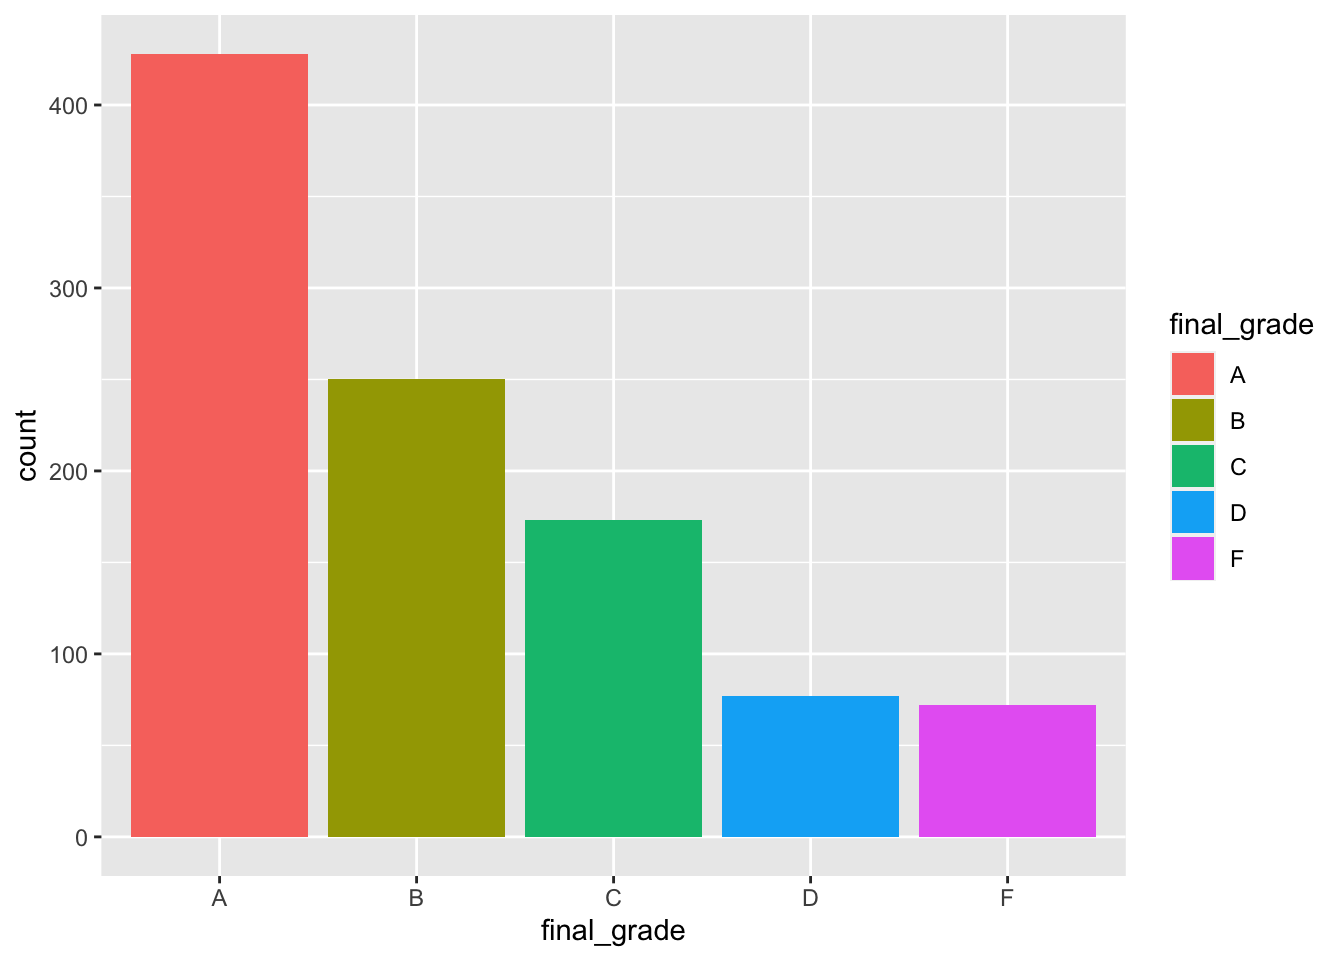
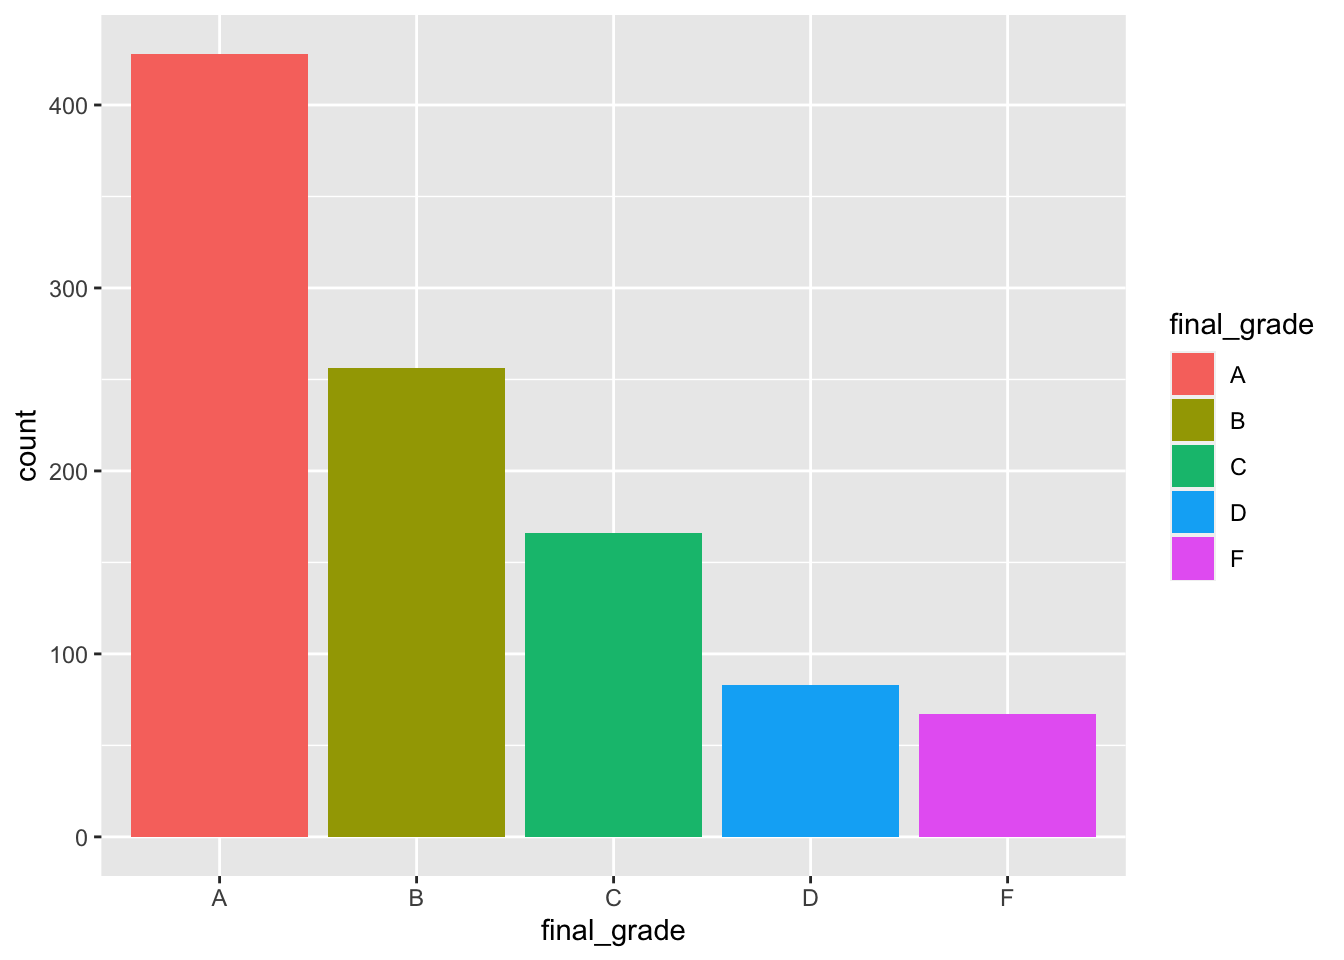
updated a change with build

Changed region(s): [[0.5312, 0.6875, 0.8125, 0.75], [0.375, 0.5312, 0.5312, 0.5625], [0.25, 0.375, 0.375, 0.4062]]

diff --git a/docs/a-table-app.html b/docs/a-table-app.html
@@ -32,7 +32,7 @@
   
   
 <link rel="prev" href="sources.html"/>
-<link rel="next" href="add-a-graph.html"/>
+
 <script src="libs/header-attrs-2.6/header-attrs.js"></script>
 <script src="libs/jquery-2.2.3/jquery.min.js"></script>
 <link href="libs/gitbook-2.6.7/css/style.css" rel="stylesheet" />
@@ -139,8 +139,9 @@ code span.wa { color: #60a0b0; font-weight: bold; font-style: italic; } /* Warni
 <ul>
 <li class="chapter" data-level="3.1" data-path="a-table-app.html"><a href="a-table-app.html#just-a-table"><i class="fa fa-check"></i><b>3.1</b> Just a table</a></li>
 <li class="chapter" data-level="3.2" data-path="a-table-app.html"><a href="a-table-app.html#some-structure"><i class="fa fa-check"></i><b>3.2</b> Some structure</a></li>
+<li class="chapter" data-level="3.3" data-path="a-table-app.html"><a href="a-table-app.html#add-a-graph"><i class="fa fa-check"></i><b>3.3</b> Add a graph!</a></li>
+<li class="chapter" data-level="3.4" data-path="a-table-app.html"><a href="a-table-app.html#add-a-sidebar-and-a-picker-input"><i class="fa fa-check"></i><b>3.4</b> Add a sidebar and a picker input</a></li>
 </ul></li>
-<li class="chapter" data-level="4" data-path="add-a-graph.html"><a href="add-a-graph.html"><i class="fa fa-check"></i><b>4</b> Add a graph!</a></li>
 <li class="divider"></li>
 <li><a href="https://github.com/rstudio/bookdown" target="blank">Published with bookdown</a></li>
 
@@ -188,10 +189,10 @@ code span.wa { color: #60a0b0; font-weight: bold; font-style: italic; } /* Warni
 <div class="sourceCode" id="cb2"><pre class="sourceCode r"><code class="sourceCode r"><span id="cb2-1"><a href="a-table-app.html#cb2-1" aria-hidden="true" tabindex="-1"></a><span class="fu">glimpse</span>(grades)</span></code></pre></div>
 <pre><code>## Rows: 1,000
 ## Columns: 4
-## $ name        &lt;chr&gt; &quot;Rhys Kessler-Schuppe&quot;, &quot;Jannie Bailey&quot;, &quot;Britt Schmitt S…
-## $ final_score &lt;chr&gt; &quot;0.84&quot;, &quot;0.92&quot;, &quot;0.93&quot;, &quot;0.99&quot;, &quot;0.96&quot;, &quot;0.95&quot;, &quot;0.94&quot;, &quot;…
-## $ section     &lt;chr&gt; &quot;09&quot;, &quot;10&quot;, &quot;01&quot;, &quot;02&quot;, &quot;01&quot;, &quot;04&quot;, &quot;07&quot;, &quot;07&quot;, &quot;08&quot;, &quot;06…
-## $ final_grade &lt;chr&gt; &quot;B&quot;, &quot;A&quot;, &quot;A&quot;, &quot;A&quot;, &quot;A&quot;, &quot;A&quot;, &quot;A&quot;, &quot;B&quot;, &quot;D&quot;, &quot;C&quot;, &quot;A&quot;, &quot;F…</code></pre>
+## $ name        &lt;chr&gt; &quot;Ricki Wuckert&quot;, &quot;Mr. Dominick Corkery&quot;, &quot;Lish Doyle&quot;, &quot;D…
+## $ final_score &lt;chr&gt; &quot;0.84&quot;, &quot;0.93&quot;, &quot;0.98&quot;, &quot;0.81&quot;, &quot;0.98&quot;, &quot;0.83&quot;, &quot;0.80&quot;, &quot;…
+## $ section     &lt;chr&gt; &quot;09&quot;, &quot;01&quot;, &quot;05&quot;, &quot;03&quot;, &quot;07&quot;, &quot;04&quot;, &quot;05&quot;, &quot;09&quot;, &quot;02&quot;, &quot;04…
+## $ final_grade &lt;chr&gt; &quot;B&quot;, &quot;A&quot;, &quot;A&quot;, &quot;B&quot;, &quot;A&quot;, &quot;B&quot;, &quot;B&quot;, &quot;F&quot;, &quot;A&quot;, &quot;B&quot;, &quot;B&quot;, &quot;A…</code></pre>
 <p>The basic framework for a Shiny app looks like this</p>
 <div class="sourceCode" id="cb4"><pre class="sourceCode r"><code class="sourceCode r"><span id="cb4-1"><a href="a-table-app.html#cb4-1" aria-hidden="true" tabindex="-1"></a><span class="fu">library</span>(shiny)</span>
 <span id="cb4-2"><a href="a-table-app.html#cb4-2" aria-hidden="true" tabindex="-1"></a></span>
@@ -267,14 +268,53 @@ code span.wa { color: #60a0b0; font-weight: bold; font-style: italic; } /* Warni
 </br>
 <img src="images/03_table_app/basic_table_04.png" /></p>
 </div>
+<div id="add-a-graph" class="section level2" number="3.3">
+<h2><span class="header-section-number">3.3</span> Add a graph!</h2>
+<p><img src="images/03_table_app/basic_table_05.png" /></p>
+<p>Next we are going to add a graph to our app. We will make a basic bar graph showing the distribution of grades in the course. Here is the <code>{ggplot2}</code> code we will use to make the graph.</p>
+<div class="sourceCode" id="cb9"><pre class="sourceCode r"><code class="sourceCode r"><span id="cb9-1"><a href="a-table-app.html#cb9-1" aria-hidden="true" tabindex="-1"></a><span class="fu">ggplot</span>(grades, <span class="fu">aes</span>(final_grade, <span class="at">fill =</span> final_grade)) <span class="sc">+</span> <span class="fu">geom_histogram</span>(<span class="at">stat =</span> <span class="st">&#39;count&#39;</span>)</span></code></pre></div>
+<p><img src="notes_shiny_files/figure-html/unnamed-chunk-8-1.png" width="672" /></p>
+<p>The code for the app will look like this</p>
+<div class="sourceCode" id="cb10"><pre class="sourceCode r"><code class="sourceCode r"><span id="cb10-1"><a href="a-table-app.html#cb10-1" aria-hidden="true" tabindex="-1"></a>ui <span class="ot">&lt;-</span> <span class="fu">fluidPage</span>(</span>
+<span id="cb10-2"><a href="a-table-app.html#cb10-2" aria-hidden="true" tabindex="-1"></a>  <span class="fu">br</span>(),</span>
+<span id="cb10-3"><a href="a-table-app.html#cb10-3" aria-hidden="true" tabindex="-1"></a>  <span class="fu">wellPanel</span>(</span>
+<span id="cb10-4"><a href="a-table-app.html#cb10-4" aria-hidden="true" tabindex="-1"></a>    <span class="fu">h3</span>(<span class="st">&quot;My table app&quot;</span>),</span>
+<span id="cb10-5"><a href="a-table-app.html#cb10-5" aria-hidden="true" tabindex="-1"></a>    lorem<span class="sc">::</span><span class="fu">ipsum</span>(<span class="at">paragraphs =</span> <span class="dv">1</span>, <span class="at">sentences =</span> <span class="dv">6</span>)</span>
+<span id="cb10-6"><a href="a-table-app.html#cb10-6" aria-hidden="true" tabindex="-1"></a>  ),</span>
+<span id="cb10-7"><a href="a-table-app.html#cb10-7" aria-hidden="true" tabindex="-1"></a>  <span class="fu">fluidRow</span>(</span>
+<span id="cb10-8"><a href="a-table-app.html#cb10-8" aria-hidden="true" tabindex="-1"></a>    <span class="fu">column</span>(<span class="dv">10</span>, <span class="at">offset =</span> <span class="dv">1</span>,</span>
+<span id="cb10-9"><a href="a-table-app.html#cb10-9" aria-hidden="true" tabindex="-1"></a>      DT<span class="sc">::</span><span class="fu">dataTableOutput</span>(<span class="st">&#39;table&#39;</span>),</span>
+<span id="cb10-10"><a href="a-table-app.html#cb10-10" aria-hidden="true" tabindex="-1"></a>      <span class="fu">plotOutput</span>(<span class="st">&#39;plot&#39;</span>) <span class="co"># &lt;====== Add the plot to the UI, in the column element</span></span>
+<span id="cb10-11"><a href="a-table-app.html#cb10-11" aria-hidden="true" tabindex="-1"></a>    )</span>
+<span id="cb10-12"><a href="a-table-app.html#cb10-12" aria-hidden="true" tabindex="-1"></a>  )</span>
+<span id="cb10-13"><a href="a-table-app.html#cb10-13" aria-hidden="true" tabindex="-1"></a>)</span>
+<span id="cb10-14"><a href="a-table-app.html#cb10-14" aria-hidden="true" tabindex="-1"></a></span>
+<span id="cb10-15"><a href="a-table-app.html#cb10-15" aria-hidden="true" tabindex="-1"></a>server <span class="ot">&lt;-</span> <span class="cf">function</span>(input, output, session) {</span>
+<span id="cb10-16"><a href="a-table-app.html#cb10-16" aria-hidden="true" tabindex="-1"></a>  output<span class="sc">$</span>table <span class="ot">&lt;-</span> DT<span class="sc">::</span><span class="fu">renderDataTable</span>({</span>
+<span id="cb10-17"><a href="a-table-app.html#cb10-17" aria-hidden="true" tabindex="-1"></a>    <span class="fu">datatable</span>(grades)</span>
+<span id="cb10-18"><a href="a-table-app.html#cb10-18" aria-hidden="true" tabindex="-1"></a>  })</span>
+<span id="cb10-19"><a href="a-table-app.html#cb10-19" aria-hidden="true" tabindex="-1"></a>  </span>
+<span id="cb10-20"><a href="a-table-app.html#cb10-20" aria-hidden="true" tabindex="-1"></a>  output<span class="sc">$</span>plot <span class="ot">&lt;-</span> <span class="fu">renderPlot</span>({   <span class="co"># &lt;========== Add new element to the output list</span></span>
+<span id="cb10-21"><a href="a-table-app.html#cb10-21" aria-hidden="true" tabindex="-1"></a>    <span class="fu">ggplot</span>(grades, <span class="fu">aes</span>(final_grade, <span class="at">fill =</span> final_grade)) <span class="sc">+</span> </span>
+<span id="cb10-22"><a href="a-table-app.html#cb10-22" aria-hidden="true" tabindex="-1"></a>      <span class="fu">geom_histogram</span>(<span class="at">stat =</span> <span class="st">&#39;count&#39;</span>)</span>
+<span id="cb10-23"><a href="a-table-app.html#cb10-23" aria-hidden="true" tabindex="-1"></a>  })</span>
+<span id="cb10-24"><a href="a-table-app.html#cb10-24" aria-hidden="true" tabindex="-1"></a>}</span></code></pre></div>
+<p></br>
+</br>
+<img src="images/03_table_app/basic_table_06.png" /></p>
+</div>
+<div id="add-a-sidebar-and-a-picker-input" class="section level2" number="3.4">
+<h2><span class="header-section-number">3.4</span> Add a sidebar and a picker input</h2>
+
+</div>
 </div>
             </section>
 
           </div>
         </div>
       </div>
-<a href="sources.html" class="navigation navigation-prev " aria-label="Previous page"><i class="fa fa-angle-left"></i></a>
-<a href="add-a-graph.html" class="navigation navigation-next " aria-label="Next page"><i class="fa fa-angle-right"></i></a>
+<a href="sources.html" class="navigation navigation-prev navigation-unique" aria-label="Previous page"><i class="fa fa-angle-left"></i></a>
+
     </div>
   </div>
 <script src="libs/gitbook-2.6.7/js/app.min.js"></script>

diff --git a/docs/index.html b/docs/index.html
@@ -139,8 +139,9 @@ code span.wa { color: #60a0b0; font-weight: bold; font-style: italic; } /* Warni
 <ul>
 <li class="chapter" data-level="3.1" data-path="a-table-app.html"><a href="a-table-app.html#just-a-table"><i class="fa fa-check"></i><b>3.1</b> Just a table</a></li>
 <li class="chapter" data-level="3.2" data-path="a-table-app.html"><a href="a-table-app.html#some-structure"><i class="fa fa-check"></i><b>3.2</b> Some structure</a></li>
+<li class="chapter" data-level="3.3" data-path="a-table-app.html"><a href="a-table-app.html#add-a-graph"><i class="fa fa-check"></i><b>3.3</b> Add a graph!</a></li>
+<li class="chapter" data-level="3.4" data-path="a-table-app.html"><a href="a-table-app.html#add-a-sidebar-and-a-picker-input"><i class="fa fa-check"></i><b>3.4</b> Add a sidebar and a picker input</a></li>
 </ul></li>
-<li class="chapter" data-level="4" data-path="add-a-graph.html"><a href="add-a-graph.html"><i class="fa fa-check"></i><b>4</b> Add a graph!</a></li>
 <li class="divider"></li>
 <li><a href="https://github.com/rstudio/bookdown" target="blank">Published with bookdown</a></li>
 

diff --git a/docs/sources.html b/docs/sources.html
@@ -139,8 +139,9 @@ code span.wa { color: #60a0b0; font-weight: bold; font-style: italic; } /* Warni
 <ul>
 <li class="chapter" data-level="3.1" data-path="a-table-app.html"><a href="a-table-app.html#just-a-table"><i class="fa fa-check"></i><b>3.1</b> Just a table</a></li>
 <li class="chapter" data-level="3.2" data-path="a-table-app.html"><a href="a-table-app.html#some-structure"><i class="fa fa-check"></i><b>3.2</b> Some structure</a></li>
+<li class="chapter" data-level="3.3" data-path="a-table-app.html"><a href="a-table-app.html#add-a-graph"><i class="fa fa-check"></i><b>3.3</b> Add a graph!</a></li>
+<li class="chapter" data-level="3.4" data-path="a-table-app.html"><a href="a-table-app.html#add-a-sidebar-and-a-picker-input"><i class="fa fa-check"></i><b>3.4</b> Add a sidebar and a picker input</a></li>
 </ul></li>
-<li class="chapter" data-level="4" data-path="add-a-graph.html"><a href="add-a-graph.html"><i class="fa fa-check"></i><b>4</b> Add a graph!</a></li>
 <li class="divider"></li>
 <li><a href="https://github.com/rstudio/bookdown" target="blank">Published with bookdown</a></li>
 
